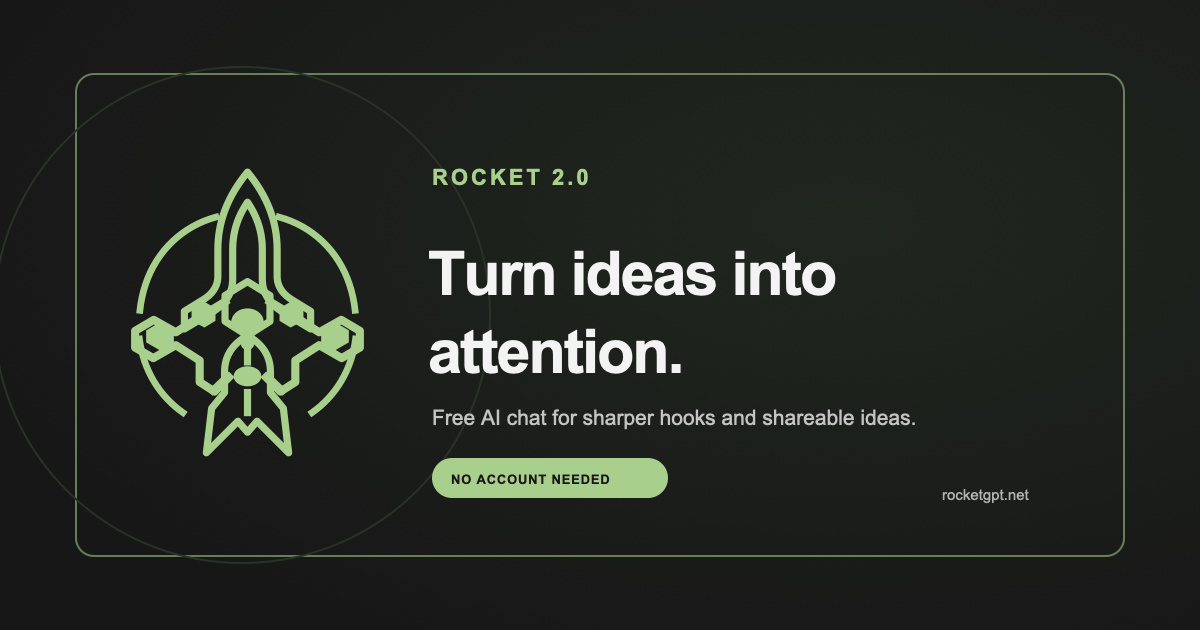
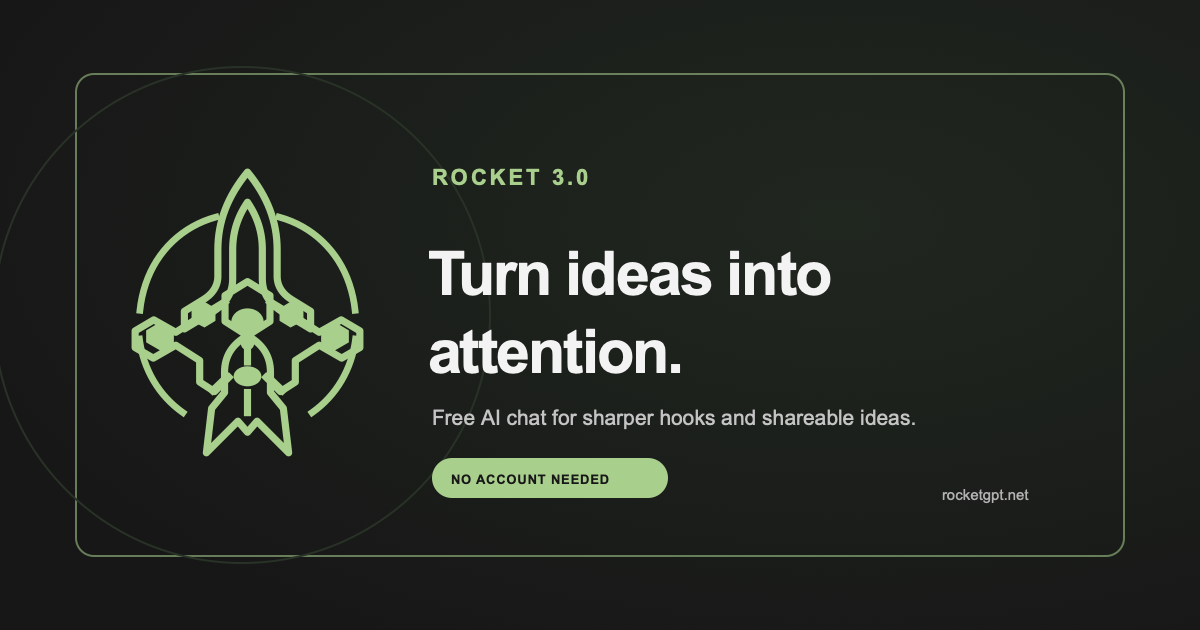
Rename public chat to Rocket 3.0
Clarify the third-party model provider and refresh public branding.

diff --git a/index.html b/index.html
@@ -4,7 +4,7 @@
   <meta charset="UTF-8" />
   <meta name="viewport" content="width=device-width, initial-scale=1.0" />
   <title>RocketGPT | American AI Research &amp; Deployment</title>
-  <meta name="description" content="RocketGPT is an American artificial intelligence research and deployment company building AI products including Rocket 2.0 and NALL-E." />
+  <meta name="description" content="RocketGPT is an American artificial intelligence research and deployment company building AI products including Rocket 3.0 and NALL-E." />
   <meta name="robots" content="index, follow, max-image-preview:large" />
   <meta name="theme-color" content="#ffffff" />
   <link rel="canonical" href="https://rocketgpt.net/" />
@@ -12,16 +12,16 @@
   <meta property="og:type" content="website" />
   <meta property="og:site_name" content="RocketGPT" />
   <meta property="og:title" content="RocketGPT | American AI Research &amp; Deployment" />
-  <meta property="og:description" content="RocketGPT is an American artificial intelligence research and deployment company building AI products including Rocket 2.0 and NALL-E." />
+  <meta property="og:description" content="RocketGPT is an American artificial intelligence research and deployment company building AI products including Rocket 3.0 and NALL-E." />
   <meta property="og:url" content="https://rocketgpt.net/" />
   <meta property="og:image" content="https://rocketgpt.net/rocketgpt-share.png" />
   <meta property="og:image:type" content="image/png" />
   <meta property="og:image:width" content="1200" />
   <meta property="og:image:height" content="630" />
-  <meta property="og:image:alt" content="Rocket 2.0 — a free AI chat workspace for sharper ideas and shareable content." />
+  <meta property="og:image:alt" content="Rocket 3.0 — a free AI chat workspace for sharper ideas and shareable content." />
   <meta name="twitter:card" content="summary_large_image" />
   <meta name="twitter:title" content="RocketGPT | American AI Research &amp; Deployment" />
-  <meta name="twitter:description" content="RocketGPT is an American artificial intelligence research and deployment company building AI products including Rocket 2.0 and NALL-E." />
+  <meta name="twitter:description" content="RocketGPT is an American artificial intelligence research and deployment company building AI products including Rocket 3.0 and NALL-E." />
   <meta name="twitter:image" content="https://rocketgpt.net/rocketgpt-share.png" />
   <script type="application/ld+json">
     {
@@ -36,9 +36,9 @@
         },
         {
           "@type": "WebApplication",
-          "name": "Rocket 2.0",
+          "name": "Rocket 3.0",
           "url": "https://rocketgpt.net/rocketgpt.html",
-          "description": "A free browser-based AI chatbot for questions, writing, planning, and creative ideas, powered by GPT-OSS.",
+          "description": "A free browser-based AI chat experience for questions, writing, planning, and creative ideas, using a third-party AI service.",
           "applicationCategory": "UtilitiesApplication",
           "operatingSystem": "Any",
           "publisher": { "@id": "https://rocketgpt.net/#organization" },
@@ -109,7 +109,7 @@
       <div class="header-actions">
         <nav class="site-nav" aria-label="Main navigation">
           <a href="/" aria-current="page">Home</a>
-          <a href="/rocketgpt.html">Rocket 2.0</a>
+          <a href="/rocketgpt.html">Rocket 3.0</a>
           <a href="/nall-e.html">NALL-E</a>
           <a href="/blog.html">Blog</a>
           <a href="/store.html">Store</a>
@@ -118,31 +118,31 @@
           <summary aria-label="Open page directory">Pages</summary>
           <nav class="site-directory-links" aria-label="Page directory">
             <a href="/" aria-current="page">Home</a>
-            <a href="/rocketgpt.html">Rocket 2.0</a>
+            <a href="/rocketgpt.html">Rocket 3.0</a>
             <a href="/nall-e.html">NALL-E</a>
             <a href="/blog.html">Blog</a>
             <a href="/store.html">Store</a>
           </nav>
         </details>
-        <a class="nav-cta" href="/rocketgpt.html">Try Rocket 2.0</a>
+        <a class="nav-cta" href="/rocketgpt.html">Try Rocket 3.0</a>
       </div>
     </header>
 
     <section class="hero" aria-labelledby="hero-title">
       <p class="eyebrow">American AI research &amp; deployment</p>
       <h1 id="hero-title">A useful AI chat, ready when you are.</h1>
-      <p class="lead">RocketGPT is an American artificial intelligence research and deployment company. We build AI products to help people explore ideas and get useful work done. Try Rocket 2.0, our free browser-based AI chatbot—no account or API key needed.</p>
-      <a class="cta" href="/rocketgpt.html">Start chatting with Rocket 2.0 <span aria-hidden="true">&nbsp;→</span></a>
-      <button class="cta share-cta" id="shareRocket" type="button">Share Rocket 2.0 <span aria-hidden="true">↗</span></button>
+      <p class="lead">RocketGPT is an American artificial intelligence research and deployment company. We build AI products to help people explore ideas and get useful work done. Try Rocket 3.0, our free browser-based AI chat experience—no account or API key needed.</p>
+      <a class="cta" href="/rocketgpt.html">Start chatting with Rocket 3.0 <span aria-hidden="true">&nbsp;→</span></a>
+      <button class="cta share-cta" id="shareRocket" type="button">Share Rocket 3.0 <span aria-hidden="true">↗</span></button>
       <p class="share-status" id="shareStatus" role="status" aria-live="polite"></p>
     </section>
 
     <section aria-labelledby="company-title">
       <h2 id="company-title">About RocketGPT</h2>
-      <p>RocketGPT is an American artificial intelligence research and deployment company focused on building and bringing practical AI products to people. Our projects include Rocket 2.0, an AI chat workspace, and NALL-E, our text-to-image experience. Some products use third-party AI models and services; we identify those providers where they are used.</p>
+      <p>RocketGPT is an American artificial intelligence research and deployment company focused on building and bringing practical AI products to people. Our projects include Rocket 3.0, an AI chat experience, and NALL-E, our text-to-image experience. Some products use third-party AI models and services; we identify those providers where they are used.</p>
     </section>
 
-    <section aria-label="What you can do with Rocket 2.0">
+    <section aria-label="What you can do with Rocket 3.0">
       <div class="features">
         <article class="feature">
           <h2>Get clear answers</h2>
@@ -167,7 +167,7 @@
 
     <section aria-labelledby="blog-title">
       <h2 id="blog-title">Notes from RocketGPT</h2>
-      <p>Read product updates and daily notes about Rocket 2.0, NALL-E, and what we're building.</p>
+      <p>Read product updates and daily notes about Rocket 3.0, NALL-E, and what we're building.</p>
       <a href="/blog.html">Visit the RocketGPT blog</a>
     </section>
 
@@ -178,24 +178,24 @@
     </section>
 
     <section aria-labelledby="about-title">
-      <h2 id="about-title">What is Rocket 2.0?</h2>
-      <p>Rocket 2.0 is a browser-based AI chatbot for everyday questions, writing help, project planning, and creative work. It uses the GPT-OSS model through Pollinations' free text service. Replies are generated by the AI service; they may be inaccurate and should be checked when the details matter.</p>
+      <h2 id="about-title">What is Rocket 3.0?</h2>
+      <p>Rocket 3.0 is a browser-based AI chat experience for everyday questions, writing help, project planning, and creative work. Its replies are generated by Pollinations' free third-party AI service—not by a language model trained or hosted by RocketGPT. Replies may be inaccurate and should be checked when the details matter.</p>
       <p>The anonymous free service is best-effort and rate-limited to one reply per public IP address every 30 seconds. Availability and limits are controlled by the provider. Chat messages are sent to that provider to generate responses, so do not enter passwords, payment information, or other sensitive details. Chat history is saved in this browser only.</p>
     </section>
 
     <section aria-labelledby="faq-title">
       <h2 id="faq-title">Frequently asked questions</h2>
-      <h3>Is Rocket 2.0 free to use?</h3>
-      <p>Rocket 2.0 uses the provider's anonymous free AI service. It requires no account or API key, but has a shared per-IP rate limit and may occasionally be unavailable.</p>
+      <h3>Is Rocket 3.0 free to use?</h3>
+      <p>Rocket 3.0 uses the provider's anonymous free AI service. It requires no account or API key, but has a shared per-IP rate limit and may occasionally be unavailable.</p>
       <h3>Do I need an OpenAI key?</h3>
-      <p>No. Rocket 2.0 uses GPT-OSS through Pollinations, not the OpenAI API.</p>
-      <h3>Can Rocket 2.0 browse the web?</h3>
+      <p>No. Rocket 3.0 uses Pollinations' third-party AI service, not the OpenAI API.</p>
+      <h3>Can Rocket 3.0 browse the web?</h3>
       <p>No. The current free chat does not have web search, so it cannot verify live news or current webpages.</p>
     </section>
 
     <footer>
-      <p>AI-generated answers can be wrong. Check important facts. Rocket 2.0 chat is provided through a third-party AI service and is not affiliated with OpenAI.</p>
-      <a href="/rocketgpt.html">Open the Rocket 2.0 chatbot</a>
+      <p>AI-generated answers can be wrong. Check important facts. Rocket 3.0 uses a third-party AI service; RocketGPT has not trained or hosted the model powering this public chat.</p>
+      <a href="/rocketgpt.html">Open Rocket 3.0 chat</a>
     </footer>
   </main>
   <script>
@@ -203,18 +203,18 @@
     const shareStatus = document.getElementById('shareStatus');
     shareButton.addEventListener('click', async () => {
       const shareData = {
-        title: 'Rocket 2.0 — Turn ideas into attention',
-        text: 'Try Rocket 2.0, a free AI chat workspace for sharper ideas and shareable content.',
+        title: 'Rocket 3.0 — Turn ideas into attention',
+        text: 'Try Rocket 3.0, a free AI chat workspace for sharper ideas and shareable content.',
         url: 'https://rocketgpt.net/?utm_source=share&utm_medium=link'
       };
       try {
         if (navigator.share) {
           await navigator.share(shareData);
-          shareStatus.textContent = 'Ready to share Rocket 2.0.';
+          shareStatus.textContent = 'Ready to share Rocket 3.0.';
           return;
         }
         await navigator.clipboard.writeText(shareData.url);
-        shareStatus.textContent = 'Rocket 2.0 link copied. Send it to a friend.';
+        shareStatus.textContent = 'Rocket 3.0 link copied. Send it to a friend.';
       } catch (error) {
         if (error.name !== 'AbortError') shareStatus.textContent = 'Sharing is unavailable in this browser.';
       }

diff --git a/rocketgpt.html b/rocketgpt.html
@@ -3,27 +3,27 @@
 <head>
   <meta charset="UTF-8" />
   <meta name="viewport" content="width=device-width, initial-scale=1.0" />
-  <title>RocketGPT | Rocket 2.0 AI Chat</title>
-  <meta name="description" content="Chat with Rocket 2.0, a free AI chatbot powered by GPT-OSS. Ask questions, improve writing, plan projects, and create shareable content—no account or API key required." />
+  <title>RocketGPT | Rocket 3.0 AI Chat</title>
+  <meta name="description" content="Chat with Rocket 3.0, a free AI chat experience using a third-party AI service. Ask questions, improve writing, plan projects, and create shareable content—no account or API key required." />
   <meta name="robots" content="index, follow, max-image-preview:large" />
   <link rel="canonical" href="https://rocketgpt.net/rocketgpt.html" />
   <meta property="og:type" content="website" />
   <meta property="og:site_name" content="RocketGPT" />
-  <meta property="og:title" content="RocketGPT — Turn ideas into attention with Rocket 2.0" />
-  <meta property="og:description" content="A free AI chat workspace for sharper ideas, better hooks, and shareable content. No account or API key required." />
+  <meta property="og:title" content="RocketGPT — Turn ideas into attention with Rocket 3.0" />
+  <meta property="og:description" content="Rocket 3.0 is a free AI chat experience using a third-party AI service. No account or API key required." />
   <meta property="og:url" content="https://rocketgpt.net/rocketgpt.html" />
   <meta property="og:image" content="https://rocketgpt.net/rocketgpt-share.png" />
   <meta property="og:image:type" content="image/png" />
   <meta property="og:image:width" content="1200" />
   <meta property="og:image:height" content="630" />
-  <meta property="og:image:alt" content="Rocket 2.0 — a free AI chat workspace for sharper ideas and shareable content." />
+  <meta property="og:image:alt" content="Rocket 3.0 — a free AI chat workspace for sharper ideas and shareable content." />
   <meta name="twitter:card" content="summary_large_image" />
-  <meta name="twitter:title" content="RocketGPT — Turn ideas into attention with Rocket 2.0" />
-  <meta name="twitter:description" content="A free AI chat workspace for sharper ideas, better hooks, and shareable content. No account or API key required." />
+  <meta name="twitter:title" content="RocketGPT — Turn ideas into attention with Rocket 3.0" />
+  <meta name="twitter:description" content="Rocket 3.0 is a free AI chat experience using a third-party AI service. No account or API key required." />
   <meta name="twitter:image" content="https://rocketgpt.net/rocketgpt-share.png" />
   <link rel="icon" type="image/svg+xml" href="rocketgpt-logo.svg" />
   <meta name="api-base-url" content="https://rocketgpt1.onrender.com" />
-  <link rel="stylesheet" href="rocketgpt.css?v=rocketgpt-white-theme-a8a5dc4" />
+  <link rel="stylesheet" href="rocketgpt.css?v=rocketgpt-3-name-317420d" />
 </head>
 <body>
   <div class="app-shell">
@@ -37,13 +37,13 @@
         <p class="history-privacy">Saved only in this browser</p>
       </section>
       <div class="side-bottom">
-        <div class="local-status"><span class="status-dot"></span><div><strong>GPT-OSS</strong><small>FREE AI CHAT</small></div></div>
+        <div class="local-status"><span class="status-dot"></span><div><strong>Third-party AI</strong><small>FREE AI CHAT</small></div></div>
       </div>
     </aside>
     <button class="sidebar-backdrop" id="sidebarBackdrop" type="button" aria-label="Close chat history" hidden></button>
 
     <main class="main">
-      <header class="topbar"><div class="topbar-kicker"><button class="mobile-history" id="mobileHistory" type="button" aria-expanded="false" aria-controls="threadList">Chats</button><span>ROCKETGPT</span><span class="topbar-divider">/</span><span>AI CHAT</span></div><div class="topbar-actions"><nav class="site-nav" aria-label="Main navigation"><a href="/">Home</a><a href="/rocketgpt.html" aria-current="page">Rocket 2.0</a><a href="/nall-e.html">NALL-E</a><a href="/blog.html">Blog</a><a href="/store.html">Store</a></nav><details class="site-directory"><summary aria-label="Open page directory">Pages</summary><nav class="site-directory-links" aria-label="Page directory"><a href="/">Home</a><a href="/rocketgpt.html" aria-current="page">Rocket 2.0</a><a href="/nall-e.html">NALL-E</a><a href="/blog.html">Blog</a><a href="/store.html">Store</a></nav></details><button class="share-app" id="shareApp" type="button" aria-label="Share Rocket 2.0"><span class="share-app-label">Share Rocket 2.0 ↗</span><span class="share-app-short" aria-hidden="true">Share ↗</span><span class="share-app-copied" aria-hidden="true">Copied</span><span class="share-app-unavailable" aria-hidden="true">Unavailable</span></button><div class="topbar-model"><span class="model-dot" aria-hidden="true"></span>GPT-OSS</div></div></header>
+      <header class="topbar"><div class="topbar-kicker"><button class="mobile-history" id="mobileHistory" type="button" aria-expanded="false" aria-controls="threadList">Chats</button><span>ROCKETGPT 3.0</span><span class="topbar-divider">/</span><span>AI CHAT</span></div><div class="topbar-actions"><nav class="site-nav" aria-label="Main navigation"><a href="/">Home</a><a href="/rocketgpt.html" aria-current="page">Rocket 3.0</a><a href="/nall-e.html">NALL-E</a><a href="/blog.html">Blog</a><a href="/store.html">Store</a></nav><details class="site-directory"><summary aria-label="Open page directory">Pages</summary><nav class="site-directory-links" aria-label="Page directory"><a href="/">Home</a><a href="/rocketgpt.html" aria-current="page">Rocket 3.0</a><a href="/nall-e.html">NALL-E</a><a href="/blog.html">Blog</a><a href="/store.html">Store</a></nav></details><button class="share-app" id="shareApp" type="button" aria-label="Share Rocket 3.0"><span class="share-app-label">Share Rocket 3.0 ↗</span><span class="share-app-short" aria-hidden="true">Share ↗</span><span class="share-app-copied" aria-hidden="true">Copied</span><span class="share-app-unavailable" aria-hidden="true">Unavailable</span></button><div class="topbar-model"><span class="model-dot" aria-hidden="true"></span>Third-party AI</div></div></header>
       <div class="chat-wrap">
         <section class="empty-state" id="emptyState">
           <div class="welcome-mark"><img class="welcome-logo" src="rocketgpt-logo.svg" alt="RocketGPT logo" /><span>ROCKETGPT</span></div>
@@ -80,10 +80,10 @@
           </div>
         </section>
         <section class="messages" id="messages" aria-live="polite"></section>
-        <div class="composer-area"><form class="composer" id="composer"><textarea id="prompt" rows="1" placeholder="Message Rocket 2.0" aria-label="Message Rocket 2.0"></textarea><button class="send" aria-label="Send message">↑</button></form><div class="composer-options"><button class="viral-toggle" id="viralMode" type="button" aria-pressed="false">Viral mode: Off</button><span>Free AI · one reply per IP every 30 seconds · don't send sensitive info</span></div><div class="composer-meta"><span>AI can make mistakes. Check important info.</span><span>⌘ ↵ to send</span></div></div>
+        <div class="composer-area"><form class="composer" id="composer"><textarea id="prompt" rows="1" placeholder="Message Rocket 3.0" aria-label="Message Rocket 3.0"></textarea><button class="send" aria-label="Send message">↑</button></form><div class="composer-options"><button class="viral-toggle" id="viralMode" type="button" aria-pressed="false">Viral mode: Off</button><span>Free AI · one reply per IP every 30 seconds · don't send sensitive info</span></div><div class="composer-meta"><span>AI can make mistakes. Check important info.</span><span>⌘ ↵ to send</span></div></div>
       </div>
     </main>
   </div>
-  <script src="rocketgpt.js?v=rocket3-reliable-chat-4b497a8" defer></script>
+  <script src="rocketgpt.js?v=rocketgpt-3-name-317420d" defer></script>
 </body>
 </html>

diff --git a/blog.html b/blog.html
@@ -5,13 +5,13 @@
   <meta name="viewport" content="width=device-width, initial-scale=1.0" />
   <meta name="color-scheme" content="light" />
   <meta name="theme-color" content="#ffffff" />
-  <meta name="description" content="Product updates and daily notes from RocketGPT, including Rocket 2.0 and NALL-E." />
+  <meta name="description" content="Product updates and daily notes from RocketGPT, including Rocket 3.0 and NALL-E." />
   <link rel="canonical" href="https://rocketgpt.net/blog.html" />
   <link rel="icon" type="image/svg+xml" href="/rocketgpt-logo.svg" />
   <meta property="og:type" content="website" />
   <meta property="og:site_name" content="RocketGPT" />
   <meta property="og:title" content="Blog | RocketGPT" />
-  <meta property="og:description" content="Product updates and daily notes from RocketGPT, including Rocket 2.0 and NALL-E." />
+  <meta property="og:description" content="Product updates and daily notes from RocketGPT, including Rocket 3.0 and NALL-E." />
   <meta property="og:url" content="https://rocketgpt.net/blog.html" />
   <meta property="og:image" content="https://rocketgpt.net/rocketgpt-share.png" />
   <link rel="stylesheet" href="/blog.css?v=1" />
@@ -25,19 +25,19 @@
     </a>
     <nav class="site-nav" aria-label="Main navigation">
       <a href="/">Home</a>
-      <a href="/rocketgpt.html">Rocket 2.0</a>
+      <a href="/rocketgpt.html">Rocket 3.0</a>
       <a href="/nall-e.html">NALL-E</a>
       <a href="/blog.html" aria-current="page">Blog</a>
       <a href="/store.html">Store</a>
     </nav>
-    <a class="header-cta" href="/rocketgpt.html">Try Rocket 2.0 <span aria-hidden="true">→</span></a>
+    <a class="header-cta" href="/rocketgpt.html">Try Rocket 3.0 <span aria-hidden="true">→</span></a>
   </header>
 
   <main>
     <section class="intro" aria-labelledby="page-title">
       <p class="eyebrow">The RocketGPT blog</p>
       <h1 id="page-title">Ideas, updates, and notes from the team.</h1>
-      <p class="intro-copy">A closer look at RocketGPT, Rocket 2.0, NALL-E, and the ideas shaping what we build next.</p>
+      <p class="intro-copy">A closer look at RocketGPT, Rocket 3.0, NALL-E, and the ideas shaping what we build next.</p>
       <p class="publishing-note">New dated notes are published daily. Daily notes share ideas and context; they do not necessarily announce product releases.</p>
     </section>
 
@@ -59,7 +59,7 @@
   <footer class="site-footer">
     <a href="/">RocketGPT</a>
     <span>Useful AI, built with care.</span>
-    <a href="/rocketgpt.html">Open Rocket 2.0</a>
+    <a href="/rocketgpt.html">Open Rocket 3.0</a>
   </footer>
   <script src="/blog.js?v=1" defer></script>
 </body>

diff --git a/rocketgpt.js b/rocketgpt.js
@@ -56,8 +56,8 @@ ${viralInstructions}`;
 
   async function shareApp() {
     const shareData = {
-      title: 'Rocket 2.0 — Turn ideas into attention',
-      text: 'Try Rocket 2.0, a free AI chat workspace for sharper ideas and shareable content.',
+      title: 'Rocket 3.0 — Turn ideas into attention',
+      text: 'Try Rocket 3.0, a free AI chat workspace for sharper ideas and shareable content.',
       url: 'https://rocketgpt.net/rocketgpt.html?utm_source=share&utm_medium=link'
     };
     try {
@@ -67,15 +67,15 @@ ${viralInstructions}`;
       }
       await navigator.clipboard.writeText(shareData.url);
       elements.shareApp.classList.add('is-copied');
-      elements.shareApp.setAttribute('aria-label', 'Rocket 2.0 link copied');
+      elements.shareApp.setAttribute('aria-label', 'Rocket 3.0 link copied');
     } catch (error) {
       if (error.name === 'AbortError') return;
       elements.shareApp.classList.add('is-unavailable');
-      elements.shareApp.setAttribute('aria-label', 'Rocket 2.0 sharing unavailable');
+      elements.shareApp.setAttribute('aria-label', 'Rocket 3.0 sharing unavailable');
     }
     window.setTimeout(() => {
       elements.shareApp.classList.remove('is-copied', 'is-unavailable');
-      elements.shareApp.setAttribute('aria-label', 'Share Rocket 2.0');
+      elements.shareApp.setAttribute('aria-label', 'Share Rocket 3.0');
     }, 2200);
   }
 
@@ -272,10 +272,10 @@ ${viralInstructions}`;
     const shareUrl = new URL(document.querySelector('meta[property="og:url"]')?.content || window.location.href);
     shareUrl.searchParams.set('utm_source', 'share');
     shareUrl.searchParams.set('utm_medium', 'answer');
-    const shareText = `${text}\n\n— Rocket 2.0`;
+    const shareText = `${text}\n\n— Rocket 3.0`;
     try {
       if (navigator.share) {
-        await navigator.share({ title: 'Rocket 2.0', text: shareText, url: shareUrl.toString() });
+        await navigator.share({ title: 'Rocket 3.0', text: shareText, url: shareUrl.toString() });
         return;
       }
       await navigator.clipboard.writeText(`${shareText}\n${shareUrl.toString()}`);
@@ -335,7 +335,7 @@ ${viralInstructions}`;
     shareButton.className = 'share-answer';
     shareButton.type = 'button';
     shareButton.textContent = 'Share answer ↗';
-    shareButton.setAttribute('aria-label', 'Share this Rocket 2.0 answer');
+    shareButton.setAttribute('aria-label', 'Share this Rocket 3.0 answer');
     shareButton.addEventListener('click', () => shareAnswer(message.content, shareButton));
     helpfulButton.className = 'feedback-vote';
     helpfulButton.type = 'button';

diff --git a/nall-e.html b/nall-e.html
@@ -130,7 +130,7 @@
       </a>
       <nav class="site-nav" aria-label="Main navigation">
         <a href="/">Home</a>
-        <a href="/rocketgpt.html">Rocket 2.0</a>
+        <a href="/rocketgpt.html">Rocket 3.0</a>
         <a href="/nall-e.html" aria-current="page">NALL-E</a>
         <a href="/blog.html">Blog</a>
         <a href="/store.html">Store</a>
@@ -139,13 +139,13 @@
         <summary aria-label="Open page directory">Pages</summary>
         <nav class="site-directory-links" aria-label="Page directory">
           <a href="/">Home</a>
-          <a href="/rocketgpt.html">Rocket 2.0</a>
+          <a href="/rocketgpt.html">Rocket 3.0</a>
           <a href="/nall-e.html" aria-current="page">NALL-E</a>
           <a href="/blog.html">Blog</a>
           <a href="/store.html">Store</a>
         </nav>
       </details>
-      <a class="nav-cta" href="/rocketgpt.html">Try Rocket 2.0</a>
+      <a class="nav-cta" href="/rocketgpt.html">Try Rocket 3.0</a>
     </header>
 
     <section class="intro" aria-labelledby="page-title">
@@ -203,7 +203,7 @@
 
     <footer>
       <span>NALL-E is RocketGPT's image-generation experience, using Pollinations' public image service.</span>
-      <a href="/rocketgpt.html">Open Rocket 2.0 chat</a>
+      <a href="/rocketgpt.html">Open Rocket 3.0 chat</a>
     </footer>
   </main>
   <script>

diff --git a/store.html b/store.html
@@ -19,7 +19,7 @@
     </a>
     <nav class="site-nav" aria-label="Main navigation">
       <a href="/">Home</a>
-      <a href="/rocketgpt.html">Rocket 2.0</a>
+      <a href="/rocketgpt.html">Rocket 3.0</a>
       <a href="/nall-e.html">NALL-E</a>
       <a href="/blog.html">Blog</a>
       <a href="/store.html" aria-current="page">Store</a>

diff --git a/README.md b/README.md
@@ -1,11 +1,11 @@
 # RocketGPT
 
-RocketGPT is an American artificial intelligence research and deployment company. Rocket 2.0 and NALL-E are RocketGPT products; they currently use third-party AI models and services rather than models trained from scratch by RocketGPT.
+RocketGPT is an American artificial intelligence research and deployment company. Rocket 3.0 and NALL-E are RocketGPT products; they currently use third-party AI models and services rather than models trained from scratch by RocketGPT.
 
 ## Run locally
 
 1. Install Node.js 18 or newer from https://nodejs.org.
-2. Start Rocket 2.0:
+2. Start Rocket 3.0:
 
 ```sh
 npm start
@@ -13,9 +13,9 @@ npm start
 
 3. Open http://localhost:3000/rocketgpt.html.
 
-Rocket chat uses the free anonymous GPT-OSS model from Pollinations, directly from the browser; no account or API key is required. The free service is best-effort and rate-limited to one response per public IP every 30 seconds. Do not send sensitive information. Web search is not available in this mode.
+Rocket 3.0 uses Pollinations' free third-party text model directly from the browser; no account or API key is required. The model is not trained or hosted by RocketGPT. The free service is best-effort and rate-limited to one response per public IP every 30 seconds. Do not send sensitive information. Web search is not available in this mode.
 
-The public homepage contains search-friendly information about Rocket 2.0, with an XML sitemap at `https://rocketgpt.net/sitemap.xml`. To request Google indexing, verify `rocketgpt.net` in Google Search Console and submit that sitemap. Google decides whether and when to index or rank pages; no code change can guarantee viral reach or instant results.
+The public homepage contains search-friendly information about Rocket 3.0, with an XML sitemap at `https://rocketgpt.net/sitemap.xml`. To request Google indexing, verify `rocketgpt.net` in Google Search Console and submit that sitemap. Google decides whether and when to index or rank pages; no code change can guarantee viral reach or instant results.
 
 The homepage and chat page include native sharing with a clipboard fallback, and use a 1200×630 branded social preview image when shared. Share links include UTM tags for basic referral attribution.
 
@@ -37,4 +37,4 @@ Use the helpful/not helpful buttons below an answer to submit a rating. The feed
 
 ## Publish AI chat
 
-GitHub Pages hosts the frontend. Chat requests go directly from each visitor's browser to Pollinations' free text API, so chat does not depend on the Render service or a server-side API key. Answer feedback still uses the optional Render API.
+GitHub Pages hosts the frontend. Rocket 3.0 chat requests go directly from each visitor's browser to Pollinations' free third-party text API, so chat does not depend on the Render service or a server-side API key. The public chat is not powered by a language model trained or hosted by RocketGPT. Answer feedback still uses the optional Render API.
